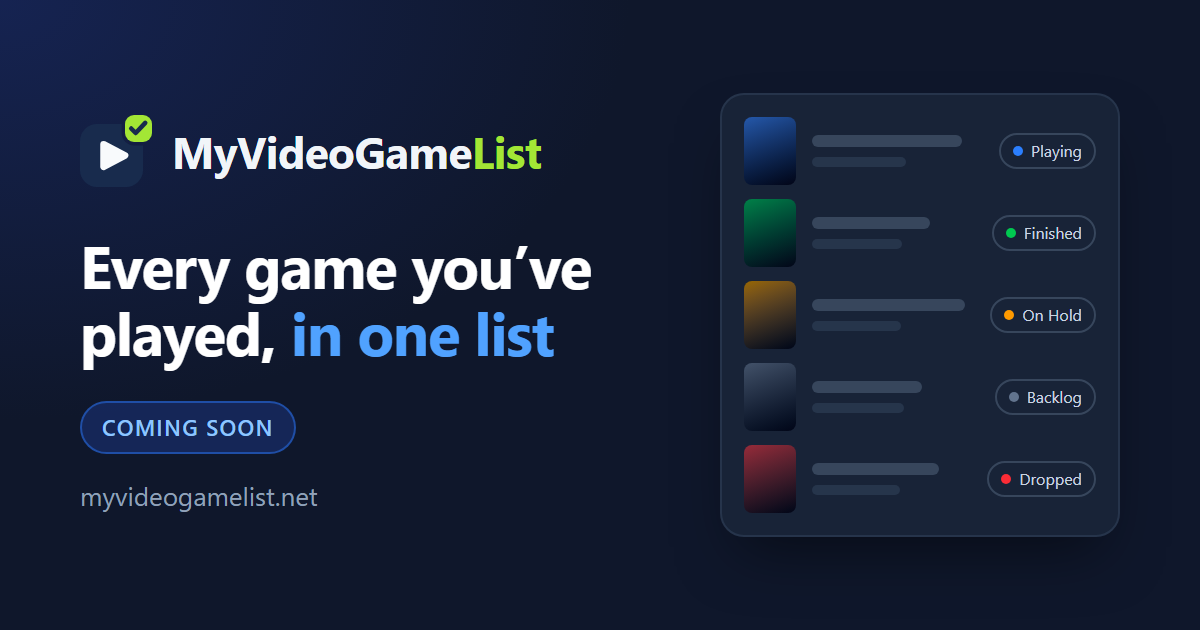
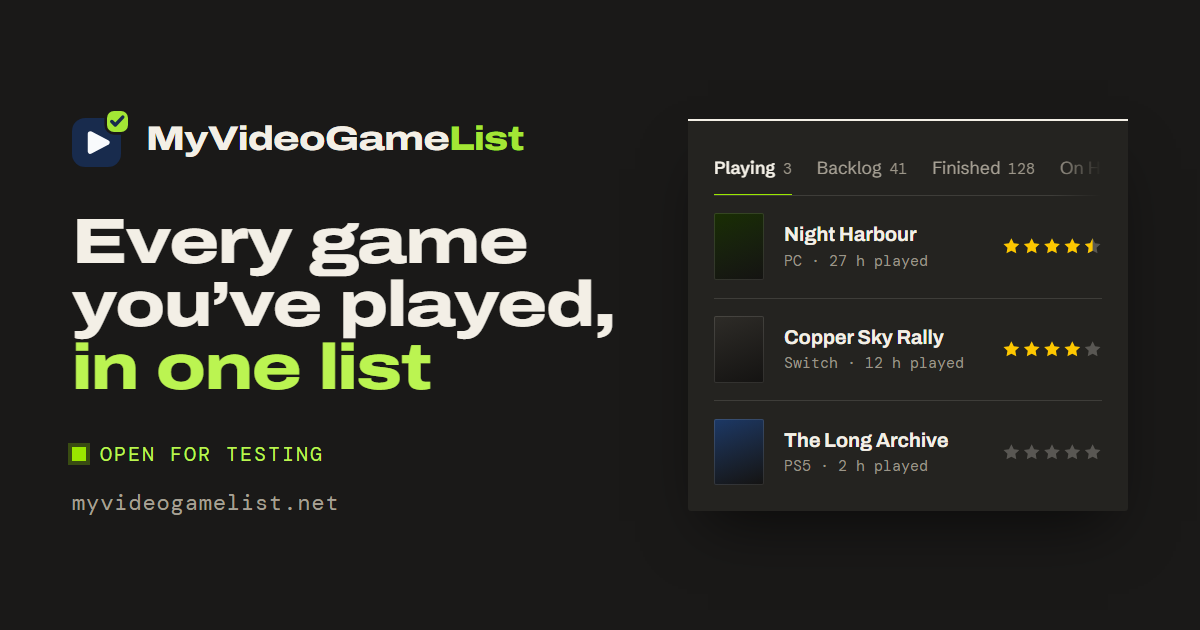
feat(holding): the share image in the site's look, open for testing
The old image was the old look with a "Coming soon" pill, which is what a
link to the apex would unfurl as all through the test run. It is redrawn
from the page's own stylesheet: the lockup and the headline in Archivo, a
lime flag reading "Open for testing" over the domain, and beside them the
same drawing of the lists the page shows, three made-up games with tinted
covers and the reader's own score in stars. No game's art, so nothing is
owed to anybody.

It is now set in the page's own fonts, from holding/site/fonts, so a render
on another machine draws the same letterforms; render.mjs says so instead
of warning that it would not.

The page's pixel matrix is left out of the image. Chromium fetches a mask
image in CORS mode, which a page opened from disk cannot satisfy, and the
glow then drew unmasked across the whole top. The served page is same
origin and draws it as it should.

The flag is between "TEST RUN" comments like the page's two blocks, so the
image can be drawn again without it when the test ends.

diff --git a/holding/share/share.html b/holding/share/share.html
@@ -6,14 +6,26 @@
         The source of ../site/share.png, the holding page's share image: 1200 by 630, the size Open
         Graph and the large card are drawn at. render.mjs beside it draws this with Chromium.
 
-        The page's own stylesheet supplies the tokens and the logo's classes, so the image is in the
-        page's colours by construction. Everything that matters stays inside the middle 1200 by 600,
-        because the large card crops the image to two to one.
+        The page's own stylesheet supplies the tokens, the fonts, the logo's classes and the drawing of
+        the lists, so the image is in the page's look by construction, and is set in the page's own
+        type on any machine that renders it. Everything that matters stays inside the middle 1200 by
+        600, because the large card crops the image to two to one.
 
-        It shows the brand and nothing else: no game's art, so no credit is owed to anybody.
+        It shows the brand and a drawing of the lists, with made-up games and tinted covers: no game's
+        art, so no credit is owed to anybody. No pixel matrix behind it, as the page has: Chromium
+        fetches a mask image in CORS mode, which a page opened from disk cannot satisfy, and the glow then
+        draws unmasked over the whole top.
+
+        The flag between the "TEST RUN" comments is the test run's (ADR 0100). When the test ends it
+        comes off, the image is drawn again, and the page's og:image:alt loses "Open for testing".
     -->
     <link rel="stylesheet" href="../site/style.css">
     <style>
+        /* rem is a fifth larger than the page's, so the drawing of the lists reads at a card's size. */
+        html {
+            font-size: 20px;
+        }
+
         html,
         body {
             width: 1200px;
@@ -24,127 +36,64 @@
 
         body {
             display: grid;
-            grid-template-columns: 1fr 400px;
+            grid-template-columns: minmax(0, 1fr) 440px;
             align-items: center;
             gap: 64px;
-            padding: 72px 80px;
-            background:
-                radial-gradient(ellipse 900px 600px at 0% 0%, color-mix(in srgb, var(--color-primary-950) 90%, transparent), transparent 70%),
-                var(--color-page);
+            padding: 56px 72px;
         }
 
         .lockup {
             display: flex;
             align-items: center;
-            gap: 20px;
-            color: var(--color-fg);
-            font-size: 44px;
-            font-weight: 700;
-            letter-spacing: -0.01em;
+            gap: 18px;
+            color: var(--color-fg-strong);
+            font-size: 34px;
         }
 
         .lockup svg {
-            width: 72px;
-            height: 72px;
+            width: 56px;
+            height: 56px;
         }
 
         .headline {
             margin-top: 44px;
             color: var(--color-fg-strong);
-            font-size: 60px;
-            font-weight: 700;
-            line-height: 1.12;
-            letter-spacing: -0.02em;
+            font-size: 64px;
+            line-height: 0.98;
         }
 
-        .soon {
-            display: inline-block;
-            margin-top: 36px;
-            padding: 8px 20px;
-            border: 2px solid color-mix(in srgb, var(--color-primary-500) 45%, transparent);
-            border-radius: 999px;
-            background: color-mix(in srgb, var(--color-primary-900) 45%, transparent);
-            color: var(--color-primary-300);
-            font-size: 22px;
-            font-weight: 600;
-            letter-spacing: 0.06em;
-            text-transform: uppercase;
+        .flag {
+            margin-top: 40px;
+            gap: 14px;
+            font-size: 20px;
+        }
+
+        .flag::before {
+            width: 14px;
+            height: 14px;
+            box-shadow: 0 0 0 4px color-mix(in srgb, var(--color-primary-500) 25%, transparent);
         }
 
         .domain {
-            margin-top: 22px;
+            margin-top: 18px;
             color: var(--color-fg-muted);
-            font-size: 26px;
+            font-size: 22px;
+            letter-spacing: 0.04em;
         }
 
-        /* A list as the app draws one, with nothing real in it: a cover, two lines of text and the
-           status, once for each of the five. */
-        .list {
-            display: grid;
-            gap: 14px;
-            padding: 22px;
-            border: 2px solid var(--color-line);
-            border-radius: 24px;
-            background: color-mix(in srgb, var(--color-surface) 70%, transparent);
-            box-shadow: 0 30px 60px -20px rgb(0 0 0 / 0.5);
+        .demo {
+            padding: 22px 26px 26px;
         }
 
-        .row {
-            display: grid;
-            grid-template-columns: 52px 1fr auto;
-            align-items: center;
-            gap: 16px;
-        }
-
-        .cover {
-            width: 52px;
-            height: 68px;
-            border-radius: 8px;
-            background: linear-gradient(160deg, color-mix(in srgb, var(--dot) 55%, var(--color-surface)), var(--color-sunken));
-        }
-
-        .lines {
-            display: grid;
-            gap: 10px;
-        }
-
-        .lines span {
-            display: block;
-            height: 12px;
-            border-radius: 6px;
-            background: var(--color-line-strong);
-        }
-
-        .lines span + span {
-            width: 55%;
-            height: 10px;
-            background: var(--color-line);
-        }
-
-        .chip {
-            display: inline-flex;
-            align-items: center;
-            gap: 8px;
-            padding: 4px 12px;
-            border: 2px solid var(--color-line-strong);
-            border-radius: 999px;
-            color: var(--color-fg-soft);
-            font-size: 16px;
-            white-space: nowrap;
-        }
-
-        .chip::before {
-            content: "";
-            width: 10px;
-            height: 10px;
-            border-radius: 50%;
-            background: var(--dot);
+        .demo-row:last-child {
+            border-bottom: 0;
+            padding-bottom: 0;
         }
     </style>
 </head>
 <body>
     <div>
-        <div class="lockup">
+        <div class="lockup type-display">
             <svg viewBox="0 0 64 64" aria-hidden="true">
                 <mask id="logo-gap">
                     <rect width="64" height="64" fill="white"/>
@@ -159,17 +108,70 @@
             </svg>
             <span>MyVideoGame<span class="brand-accent">List</span></span>
         </div>
-        <p class="headline">Every game you&rsquo;ve played, <span class="accent">in one list</span></p>
-        <p class="soon">Coming soon</p>
-        <p class="domain">myvideogamelist.net</p>
+        <p class="headline type-display">Every game you&rsquo;ve played, <span class="accent">in one list</span></p>
+        <!-- TEST RUN (ADR 0100): from here... -->
+        <p class="flag type-kicker trial-flag">Open for testing</p>
+        <!-- ...to here. -->
+        <p class="domain type-meta">myvideogamelist.net</p>
     </div>
 
-    <div class="list" aria-hidden="true">
-        <div class="row status-playing"><span class="cover"></span><span class="lines"><span style="width: 88%"></span><span></span></span><span class="chip">Playing</span></div>
-        <div class="row status-finished"><span class="cover"></span><span class="lines"><span style="width: 72%"></span><span></span></span><span class="chip">Finished</span></div>
-        <div class="row status-on-hold"><span class="cover"></span><span class="lines"><span style="width: 94%"></span><span></span></span><span class="chip">On Hold</span></div>
-        <div class="row status-backlog"><span class="cover"></span><span class="lines"><span style="width: 66%"></span><span></span></span><span class="chip">Backlog</span></div>
-        <div class="row status-dropped"><span class="cover"></span><span class="lines"><span style="width: 80%"></span><span></span></span><span class="chip">Dropped</span></div>
+    <div class="demo" aria-hidden="true">
+        <div class="demo-tabs">
+            <span class="demo-tab is-current">Playing <span class="type-meta">3</span></span>
+            <span class="demo-tab">Backlog <span class="type-meta">41</span></span>
+            <span class="demo-tab">Finished <span class="type-meta">128</span></span>
+            <span class="demo-tab">On Hold <span class="type-meta">2</span></span>
+        </div>
+
+        <div class="demo-row">
+            <span class="demo-cover is-a"></span>
+            <span class="demo-name">
+                <span class="type-title">Night Harbour</span>
+                <span class="type-meta">PC &middot; 27 h played</span>
+            </span>
+            <svg class="demo-stars" viewBox="0 0 128 24" aria-hidden="true">
+                <defs>
+                    <path id="star" d="m12 1.5 3.1 6.4 7 1-5.05 4.95 1.2 7L12 17.55l-6.25 3.3 1.2-7L1.9 8.9l7-1Z"/>
+                    <clipPath id="star-half"><rect width="12" height="24"/></clipPath>
+                </defs>
+                <use href="#star" class="star-on"/>
+                <use href="#star" x="26" class="star-on"/>
+                <use href="#star" x="52" class="star-on"/>
+                <use href="#star" x="78" class="star-on"/>
+                <use href="#star" x="104" class="star-off"/>
+                <use href="#star" x="104" class="star-on" clip-path="url(#star-half)"/>
+            </svg>
+        </div>
+
+        <div class="demo-row">
+            <span class="demo-cover is-b"></span>
+            <span class="demo-name">
+                <span class="type-title">Copper Sky Rally</span>
+                <span class="type-meta">Switch &middot; 12 h played</span>
+            </span>
+            <svg class="demo-stars" viewBox="0 0 128 24" aria-hidden="true">
+                <use href="#star" class="star-on"/>
+                <use href="#star" x="26" class="star-on"/>
+                <use href="#star" x="52" class="star-on"/>
+                <use href="#star" x="78" class="star-on"/>
+                <use href="#star" x="104" class="star-off"/>
+            </svg>
+        </div>
+
+        <div class="demo-row">
+            <span class="demo-cover is-c"></span>
+            <span class="demo-name">
+                <span class="type-title">The Long Archive</span>
+                <span class="type-meta">PS5 &middot; 2 h played</span>
+            </span>
+            <svg class="demo-stars" viewBox="0 0 128 24" aria-hidden="true">
+                <use href="#star" class="star-off"/>
+                <use href="#star" x="26" class="star-off"/>
+                <use href="#star" x="52" class="star-off"/>
+                <use href="#star" x="78" class="star-off"/>
+                <use href="#star" x="104" class="star-off"/>
+            </svg>
+        </div>
     </div>
 </body>
 </html>
